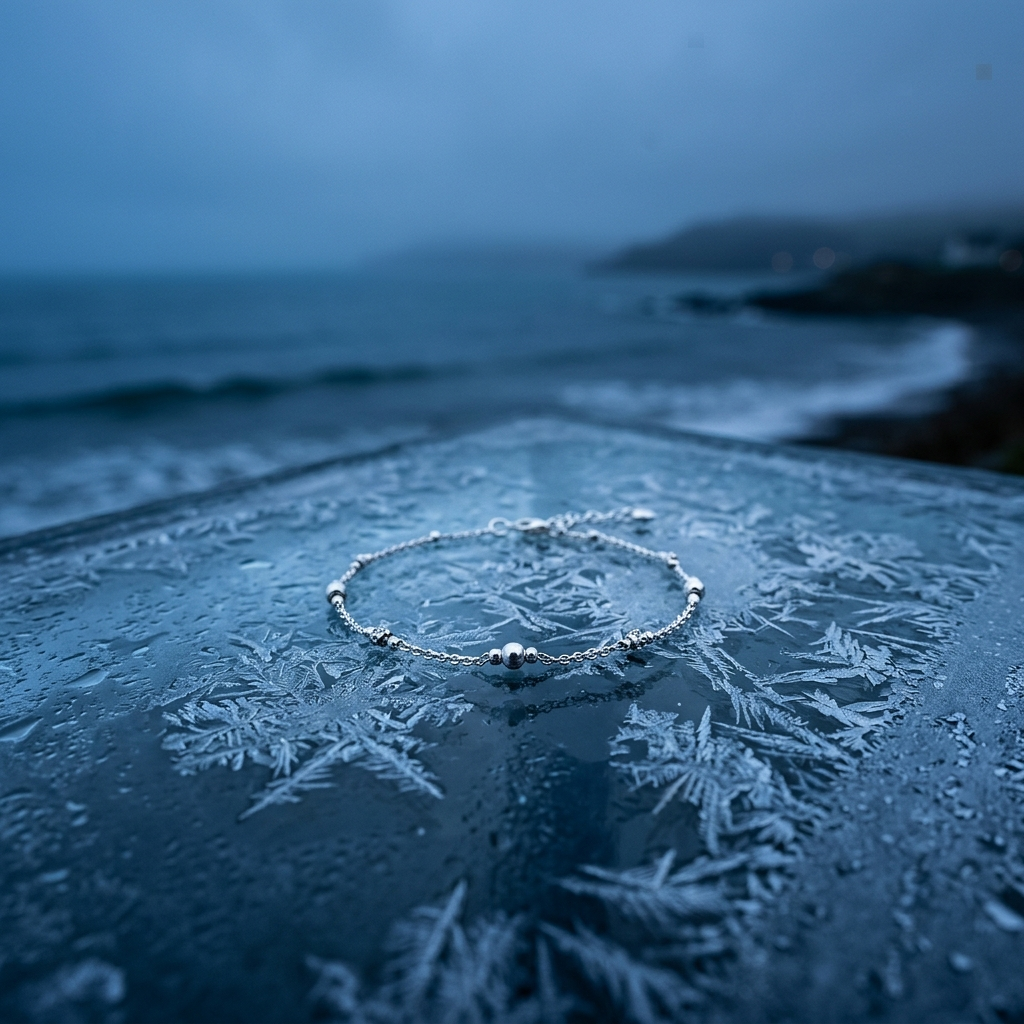
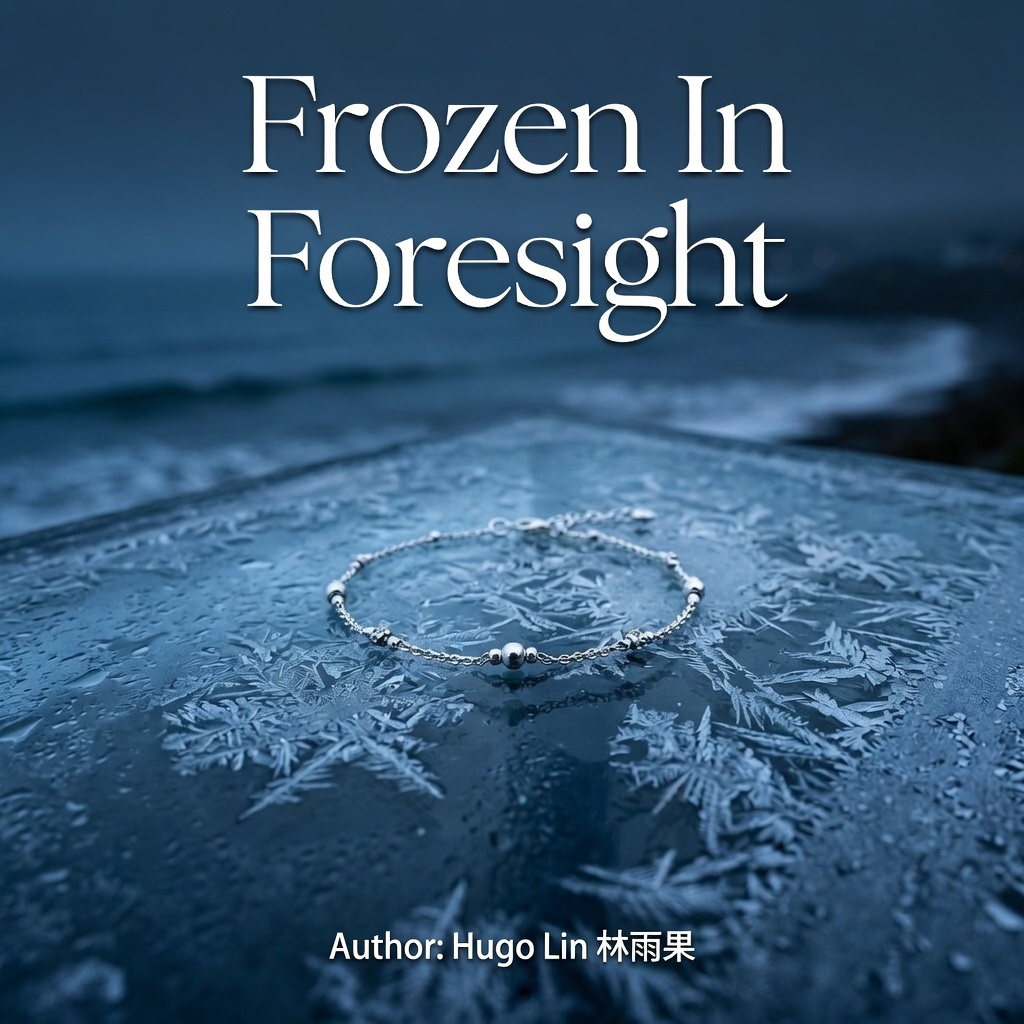
fix: 更換白露成霜封面+內頁封面放大至420px
- 複製最新封面到 site assets
- .book-cover width: 180px → min(90%, 420px)
- 所有小說內頁封面都會變大（全站適用）

Changed region(s): [[0.0, 0.0, 1.0, 0.3438], [0.1562, 0.5938, 1.0, 0.7188], [0.3125, 0.9062, 0.6875, 0.9688]]

diff --git a/site/src/styles/global.css b/site/src/styles/global.css
@@ -878,10 +878,10 @@ a:hover {
 }
 
 .book-header .book-cover {
-  width: 180px;
+  width: min(90%, 420px);
   height: auto;
-  margin: 0 auto 1.25rem;
-  border-radius: 10px;
+  margin: 0 auto 1.5rem;
+  border-radius: 12px;
   box-shadow: var(--shadow-md);
   display: block;
 }
